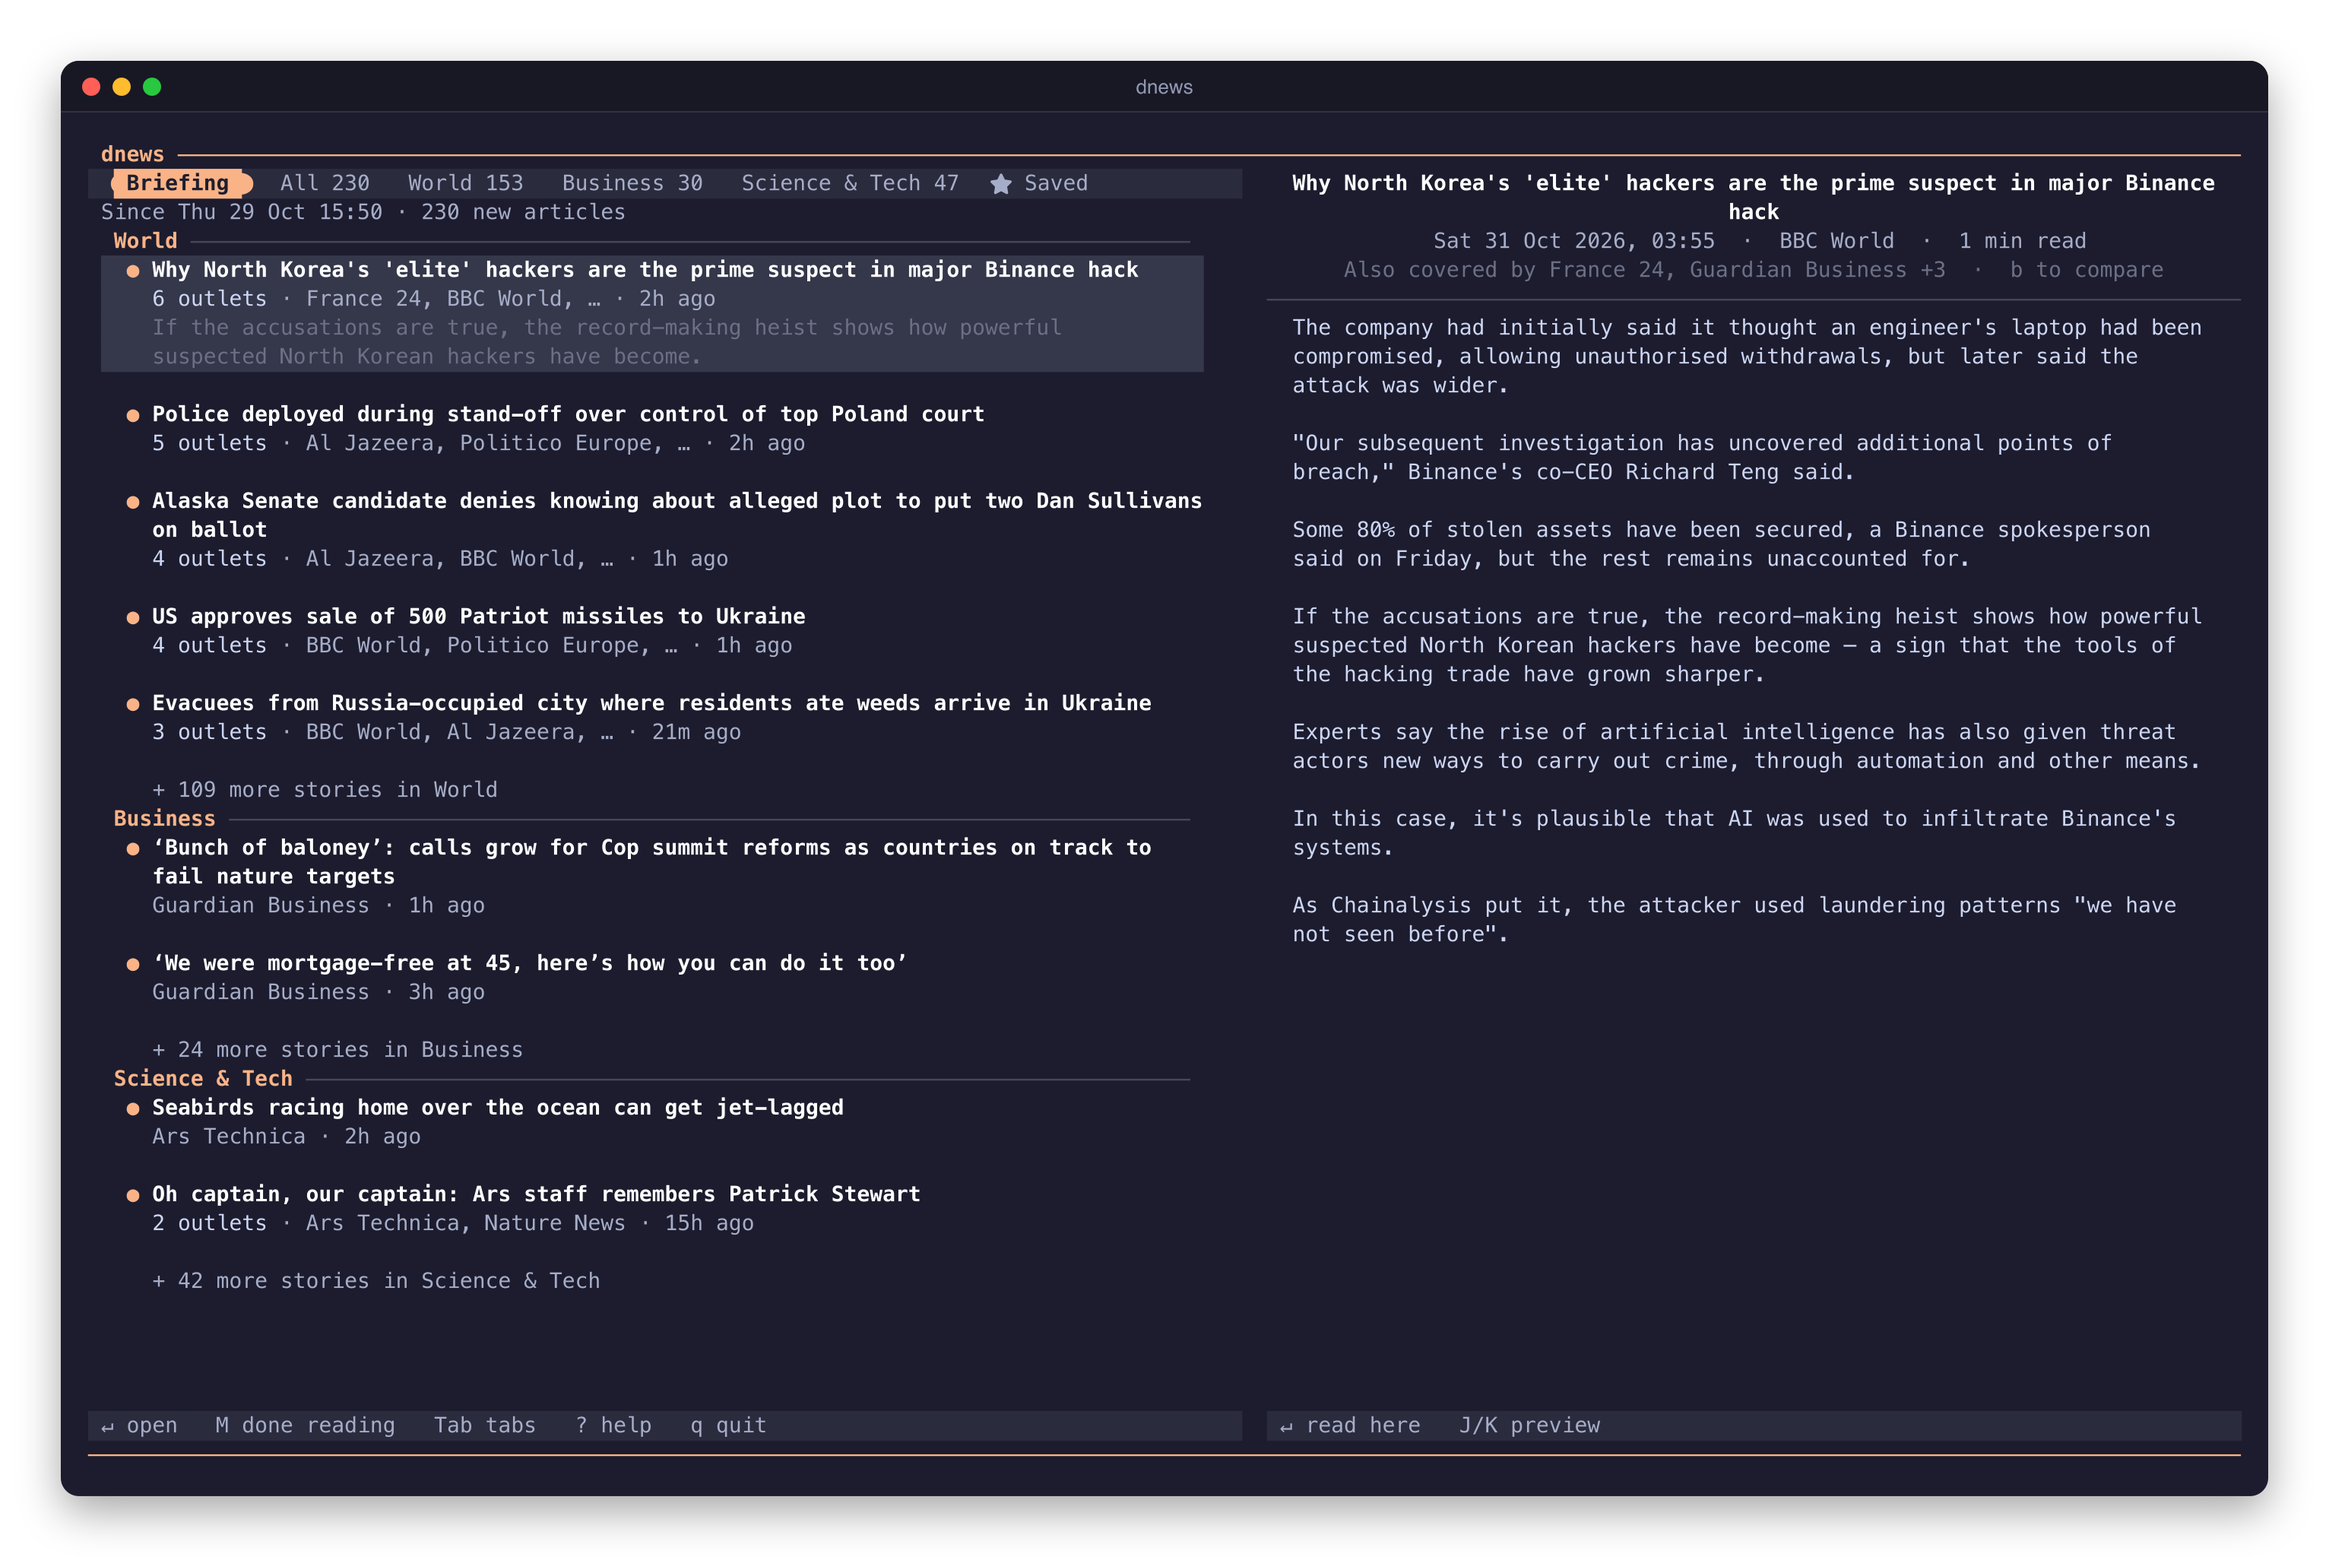
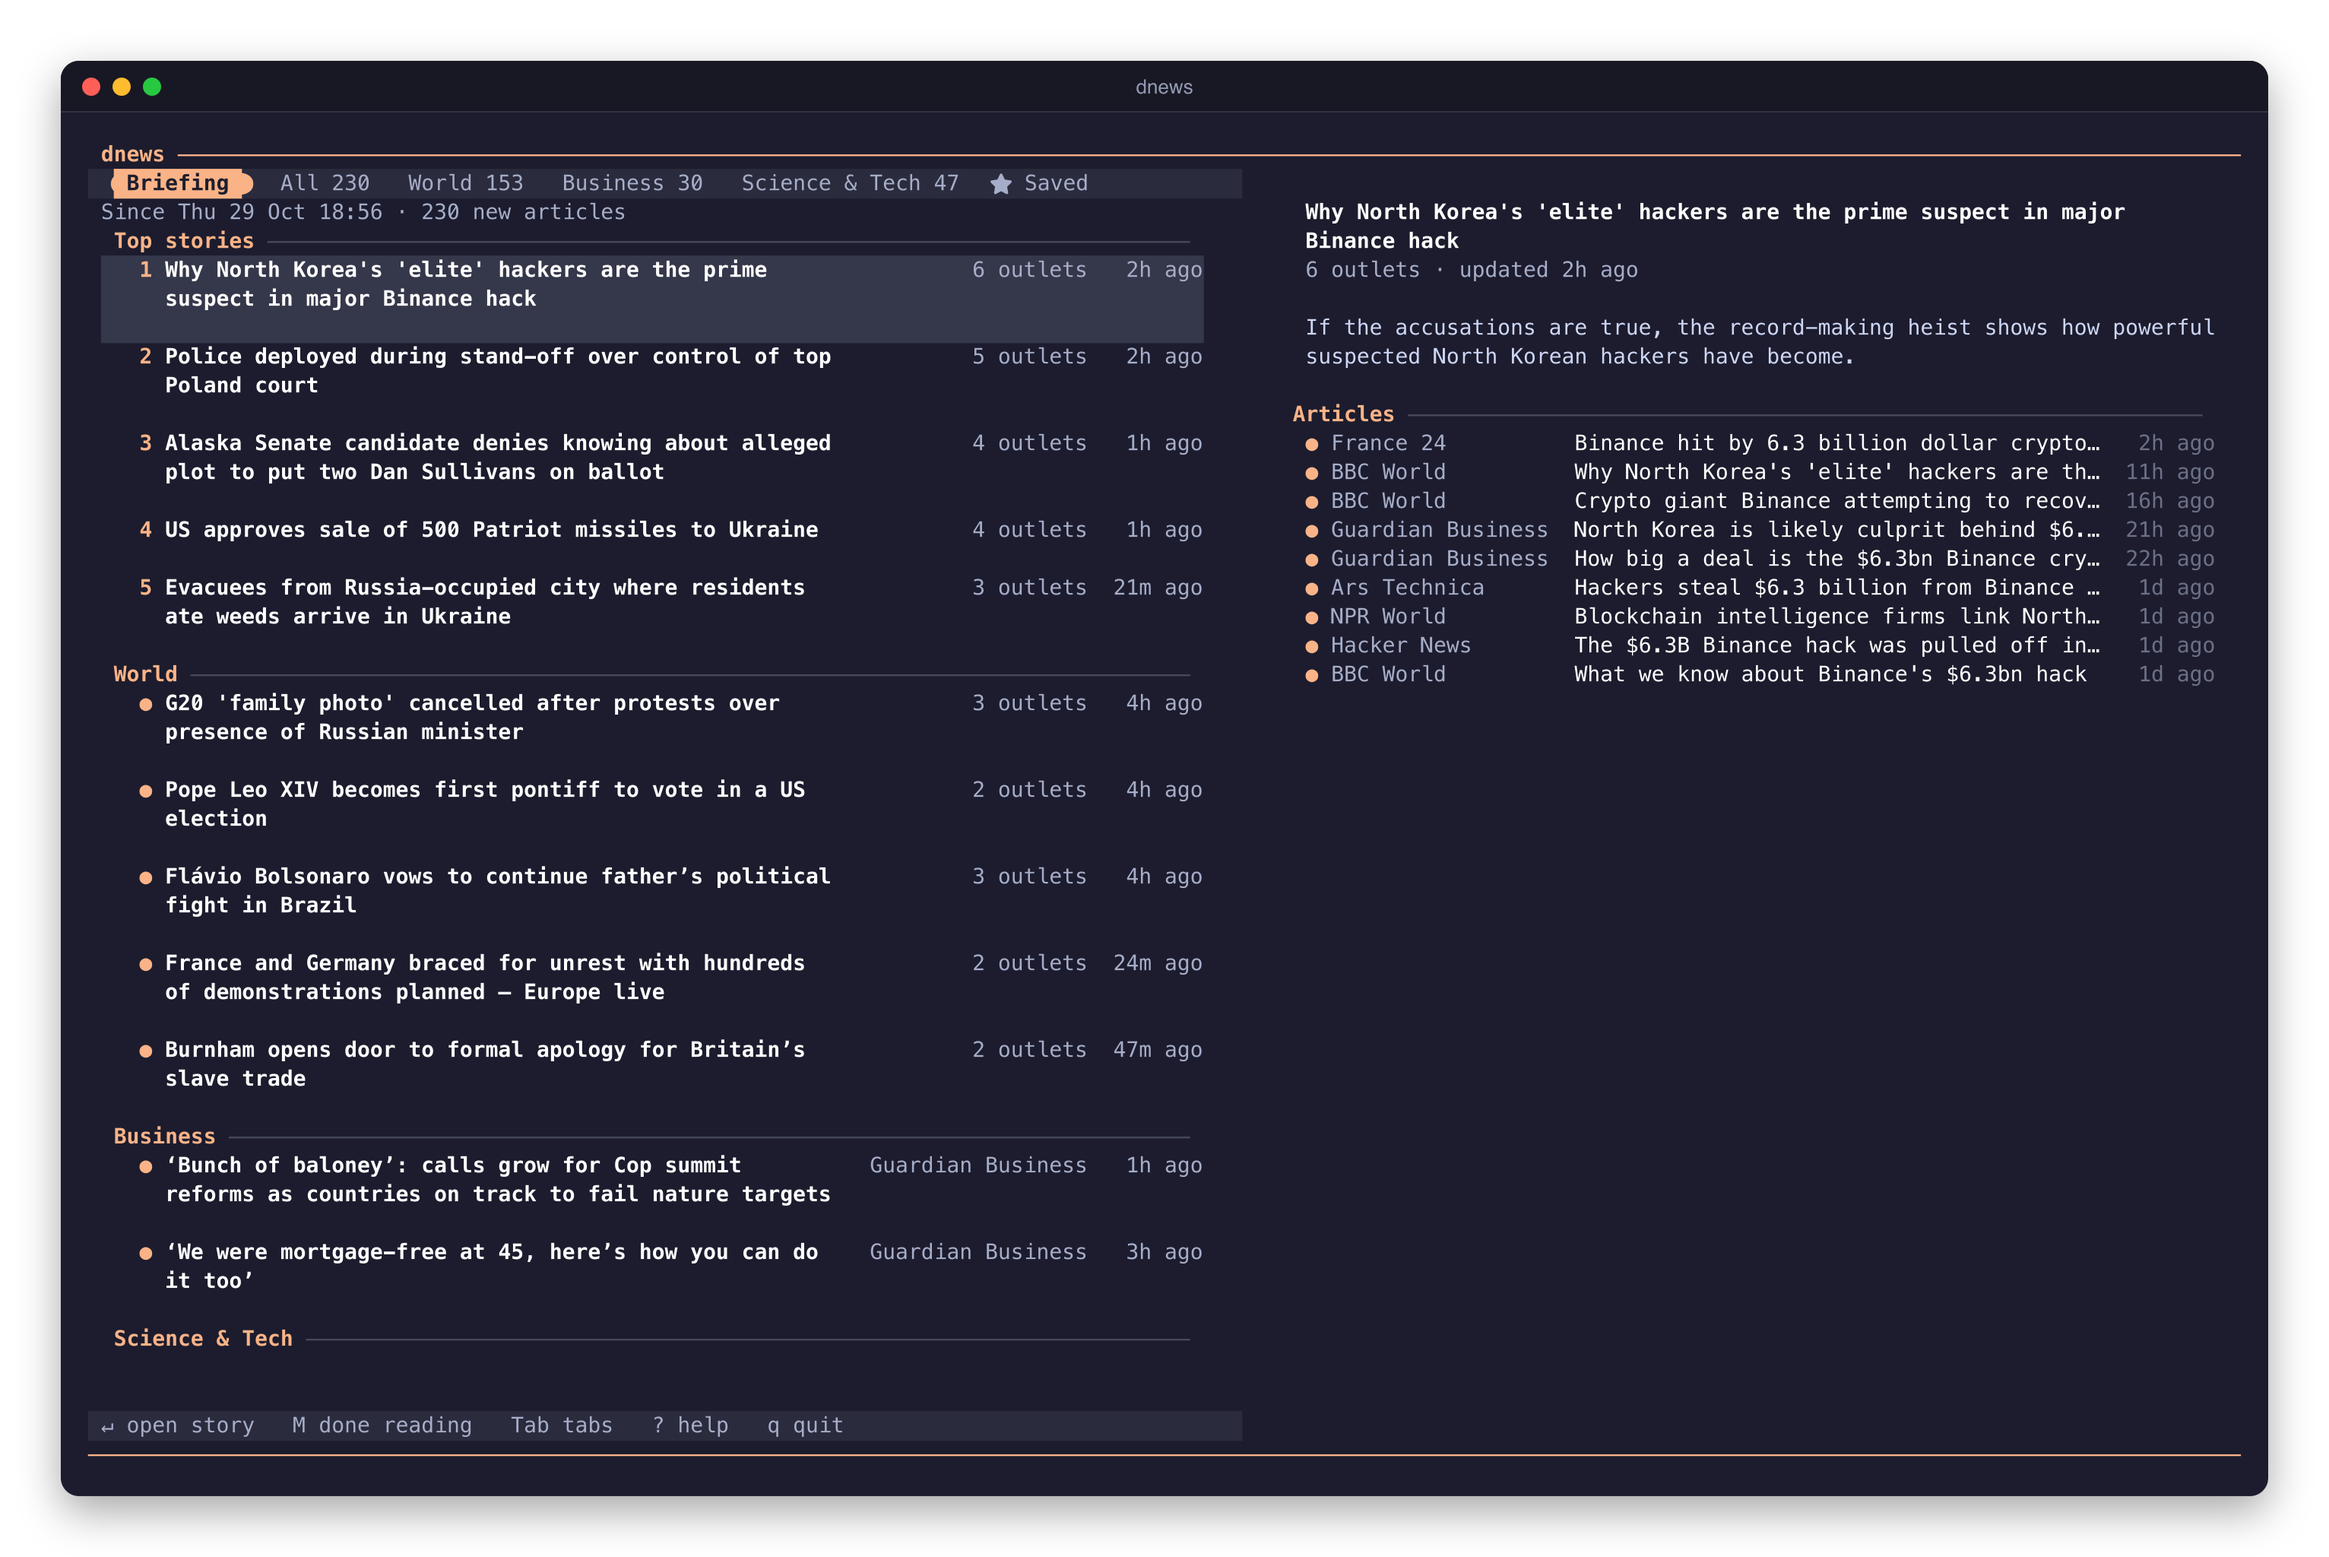
Update the screenshot and README to the new Briefing

diff --git a/README.md b/README.md
@@ -97,7 +97,8 @@ Press `?` in dnews for this list.
 | `o` / `y` | open in the browser / copy the link |
 
 On a terminal at least 150 columns wide the article opens next to the list: `Enter` reads it there,
-`q` returns to the list, and `Shift+J` `Shift+K` preview the next and previous article.
+`q` returns to the list, and `Shift+J` `Shift+K` preview the next and previous article. In the
+Briefing, the right side shows the selected story with its summary and every outlet's article.
 
 ## Data
 
